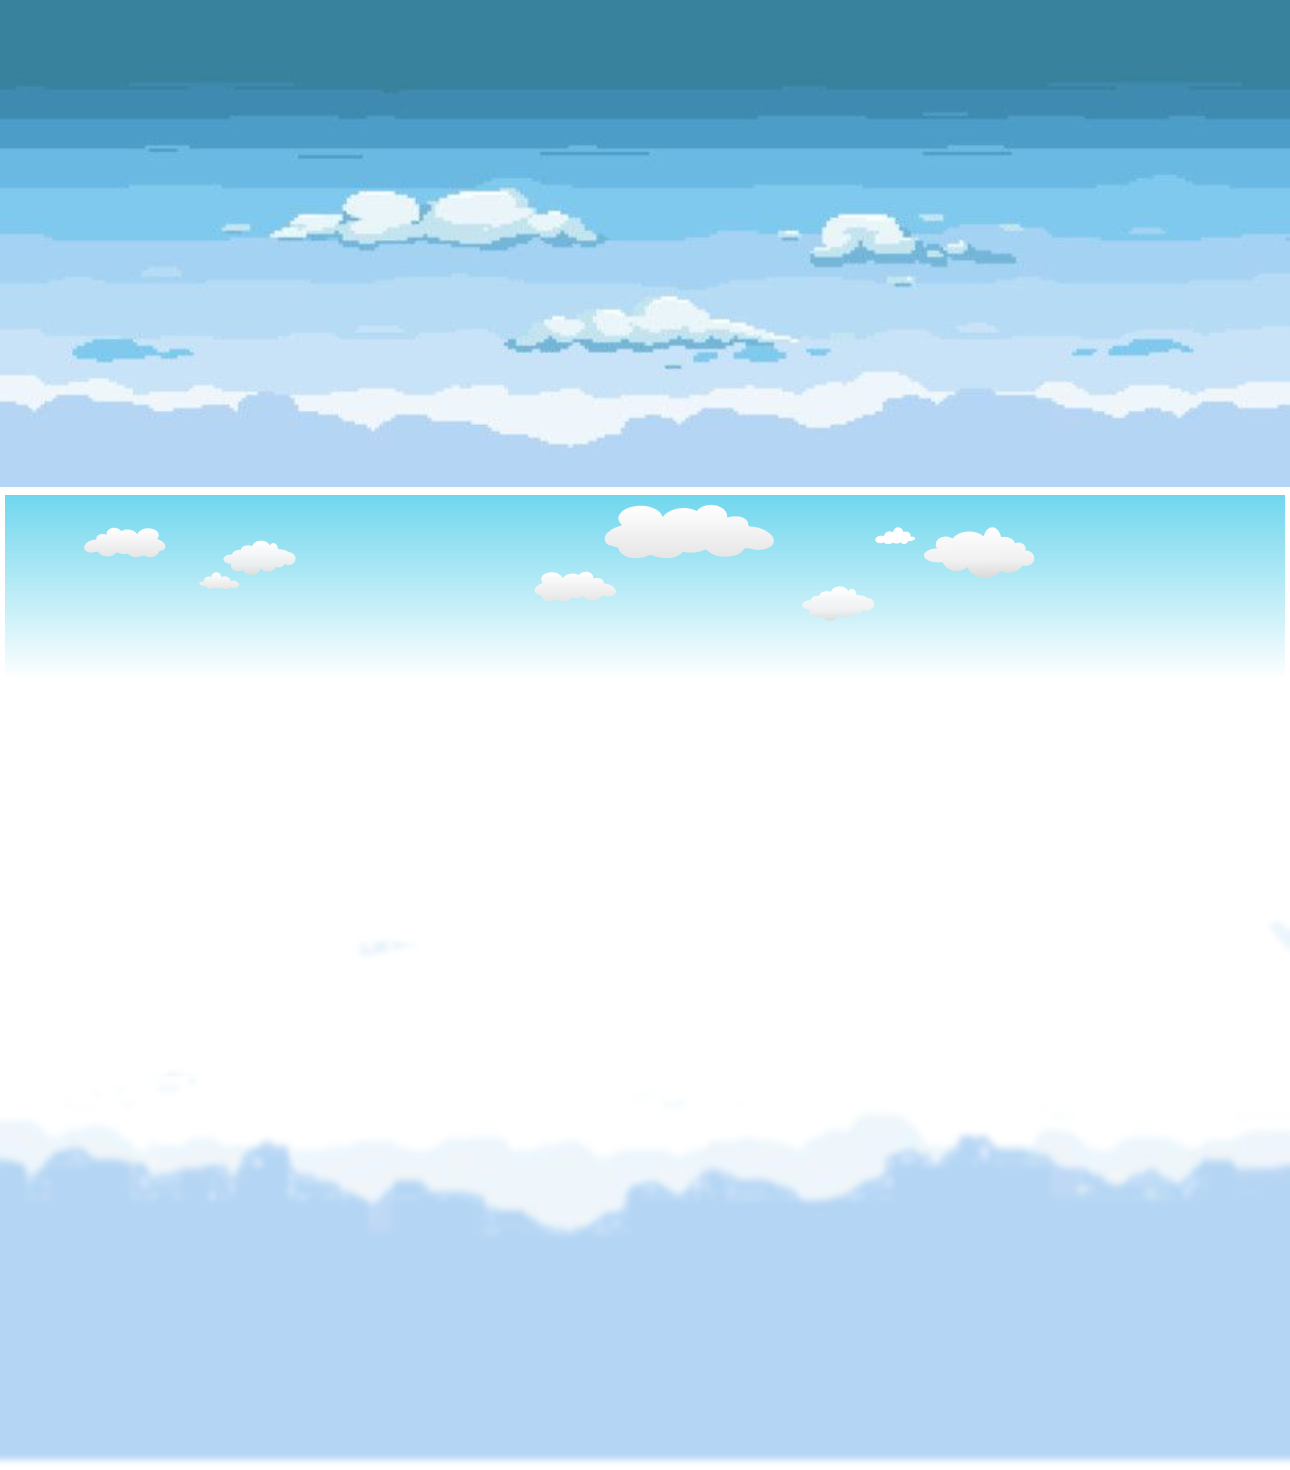
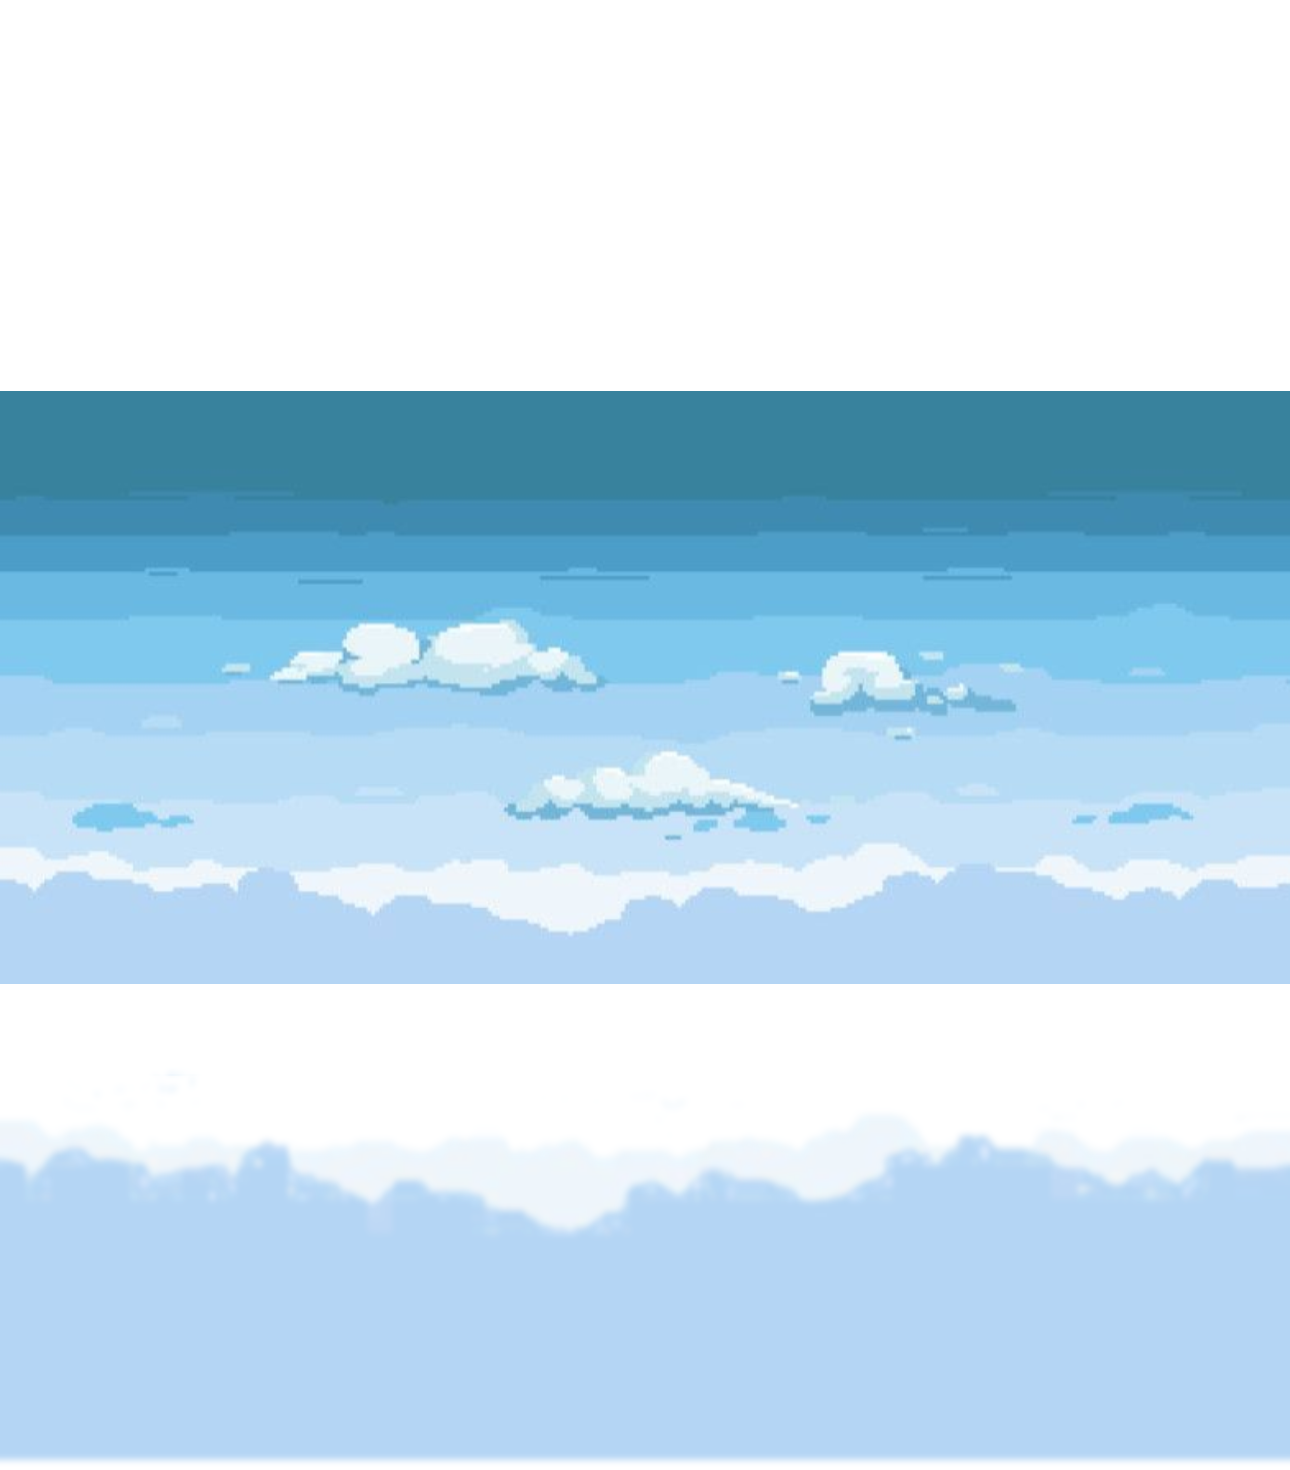
Assets modified
-Removed all the cars and added troll and archer
-Coin feature
-Background is better now ;-)

diff --git a/common.js b/common.js
@@ -344,9 +344,9 @@ var COLORS = {
 };*/
 
 var BACKGROUND = {
-	HILLS: { x: 5, y: 5, w: 1280, h: 480 },
-	SKY: { x: 5, y: 495, w: 1280, h: 480 },
-	TREES: { x: 5, y: 985, w: 1280, h: 480 }
+	// HILLS: { x: 5, y: 5, w: 1280, h: 480 },
+	SKY: { x: 5, y: 495, w: 1280, h: 700 },
+	TREES: { x: 5, y: 985, w: 1280, h: 500 }
 };
 
 var SPRITES = {
@@ -372,18 +372,13 @@ var SPRITES = {
 	BILLBOARD03: { x: 5, y: 1262, w: 230, h: 220 },
 	BILLBOARD02: { x: 245, y: 1262, w: 215, h: 220 },
 	STUMP: { x: 995, y: 330, w: 195, h: 140 },
-	SEMI: { x: 1365, y: 490, w: 122, h: 144 },
-	TRUCK: { x: 1365, y: 644, w: 100, h: 78 },
-	CAR03: { x: 1383, y: 760, w: 88, h: 55 },
-	CAR02: { x: 1383, y: 825, w: 80, h: 59 },
-	CAR04: { x: 1383, y: 894, w: 80, h: 57 },
-	CAR01: { x: 1205, y: 1018, w: 80, h: 56 },
-	PLAYER_UPHILL_LEFT: { x: 1383, y: 961, w: 80, h: 45 },
-	PLAYER_UPHILL_STRAIGHT: { x: 1295, y: 1018, w: 80, h: 45 },
-	PLAYER_UPHILL_RIGHT: { x: 1385, y: 1018, w: 80, h: 45 },
-	PLAYER_LEFT: { x: 995, y: 480, w: 80, h: 41 },
-	PLAYER_STRAIGHT: { x: 1085, y: 480, w: 80, h: 41 },
-	PLAYER_RIGHT: { x: 995, y: 531, w: 80, h: 41 },
+	TRUCK: { x: 1365, y: 644, w: 103, h: 100 },
+	PLAYER_UPHILL_LEFT: {  x: 995, y: 480, w: 80, h: 55 },
+	PLAYER_UPHILL_STRAIGHT: {  x: 1085, y: 480, w: 80, h: 55 },
+	PLAYER_UPHILL_RIGHT: {  x: 995, y: 557, w: 80, h: 55 },
+	PLAYER_LEFT: { x: 995, y: 480, w: 80, h: 50 },
+	PLAYER_STRAIGHT: { x: 1085, y: 480, w: 80, h: 50 },
+	PLAYER_RIGHT: { x: 995, y: 557, w: 80, h: 50 },
 	COIN: { x: 1380, y: 1085, w: 92, h: 86 },
 	ARCHER: { x: 1205, y: 1080, w: 70, h: 80 }
 };
@@ -392,5 +387,5 @@ SPRITES.SCALE = 0.3 * (1 / SPRITES.PLAYER_STRAIGHT.w) // the reference sprite wi
 
 SPRITES.BILLBOARDS = [SPRITES.BILLBOARD01, SPRITES.BILLBOARD02, SPRITES.BILLBOARD03, SPRITES.BILLBOARD04, SPRITES.BILLBOARD05, SPRITES.BILLBOARD06, SPRITES.BILLBOARD007, SPRITES.BILLBOARD08, SPRITES.BILLBOARD09];
 SPRITES.PLANTS = [SPRITES.TREE1, SPRITES.TREE2, SPRITES.DEAD_TREE1, SPRITES.DEAD_TREE2, SPRITES.PALM_TREE, SPRITES.BUSH1, SPRITES.BUSH2, SPRITES.CACTUS, SPRITES.STUMP, SPRITES.BOULDER1, SPRITES.BOULDER2, SPRITES.BOULDER3];
-SPRITES.CARS = [SPRITES.CAR01, SPRITES.CAR02, SPRITES.CAR03, SPRITES.CAR04, SPRITES.SEMI, SPRITES.TRUCK];
+SPRITES.CARS = [SPRITES.TRUCK, SPRITES.ARCHER];
 

diff --git a/racer.html b/racer.html
@@ -83,6 +83,7 @@
 		var offRoadLimit = maxSpeed / 4;             // limit when off road deceleration no longer applies (e.g. you can always go at least this speed even when off road)
 		var totalCars = 150;                     // total number of cars on the road
 		var totalCoins = 15;											// total number of coins on the road
+		var totalNitros = 3;												// total number of nitros on the road
 		var currentLapTime = 0;                       // current lap time
 		var lastLapTime = null;                    // last lap time
 
@@ -313,7 +314,7 @@
 			ctx.clearRect(0, 0, width, height);
 
 			Render.background(ctx, background, width, height, BACKGROUND.SKY, skyOffset, resolution * skySpeed * playerY);
-			Render.background(ctx, background, width, height, BACKGROUND.HILLS, hillOffset, resolution * hillSpeed * playerY);
+			// Render.background(ctx, background, width, height, BACKGROUND.HILLS, hillOffset, resolution * hillSpeed * playerY);
 			Render.background(ctx, background, width, height, BACKGROUND.TREES, treeOffset, resolution * treeSpeed * playerY);
 
 			var n, i, segment, car, sprite, spriteScale, spriteX, spriteY;
@@ -501,7 +502,7 @@
 			addHill(ROAD.LENGTH.MEDIUM, ROAD.HILL.HIGH);
 			addSCurves();
 			addCurve(ROAD.LENGTH.LONG, -ROAD.CURVE.MEDIUM, ROAD.HILL.NONE);
-			addHill(ROAD.LENGTH.LONG, ROAD.HILL.HIGH);
+			addHill(ROAD.LENGTH.LONG, -ROAD.HILL.HIGH);
 			addCurve(ROAD.LENGTH.LONG, ROAD.CURVE.MEDIUM, -ROAD.HILL.LOW);
 			addBumps();
 			addHill(ROAD.LENGTH.LONG, -ROAD.HILL.MEDIUM);

diff --git a/common.css b/common.css
@@ -28,7 +28,6 @@ body {
   display: inline-block;
   cursor: pointer;
   position: absolute;
-  margin-left: 20em;
 }
 #mute.on {
   background-position: -32px 0px;
